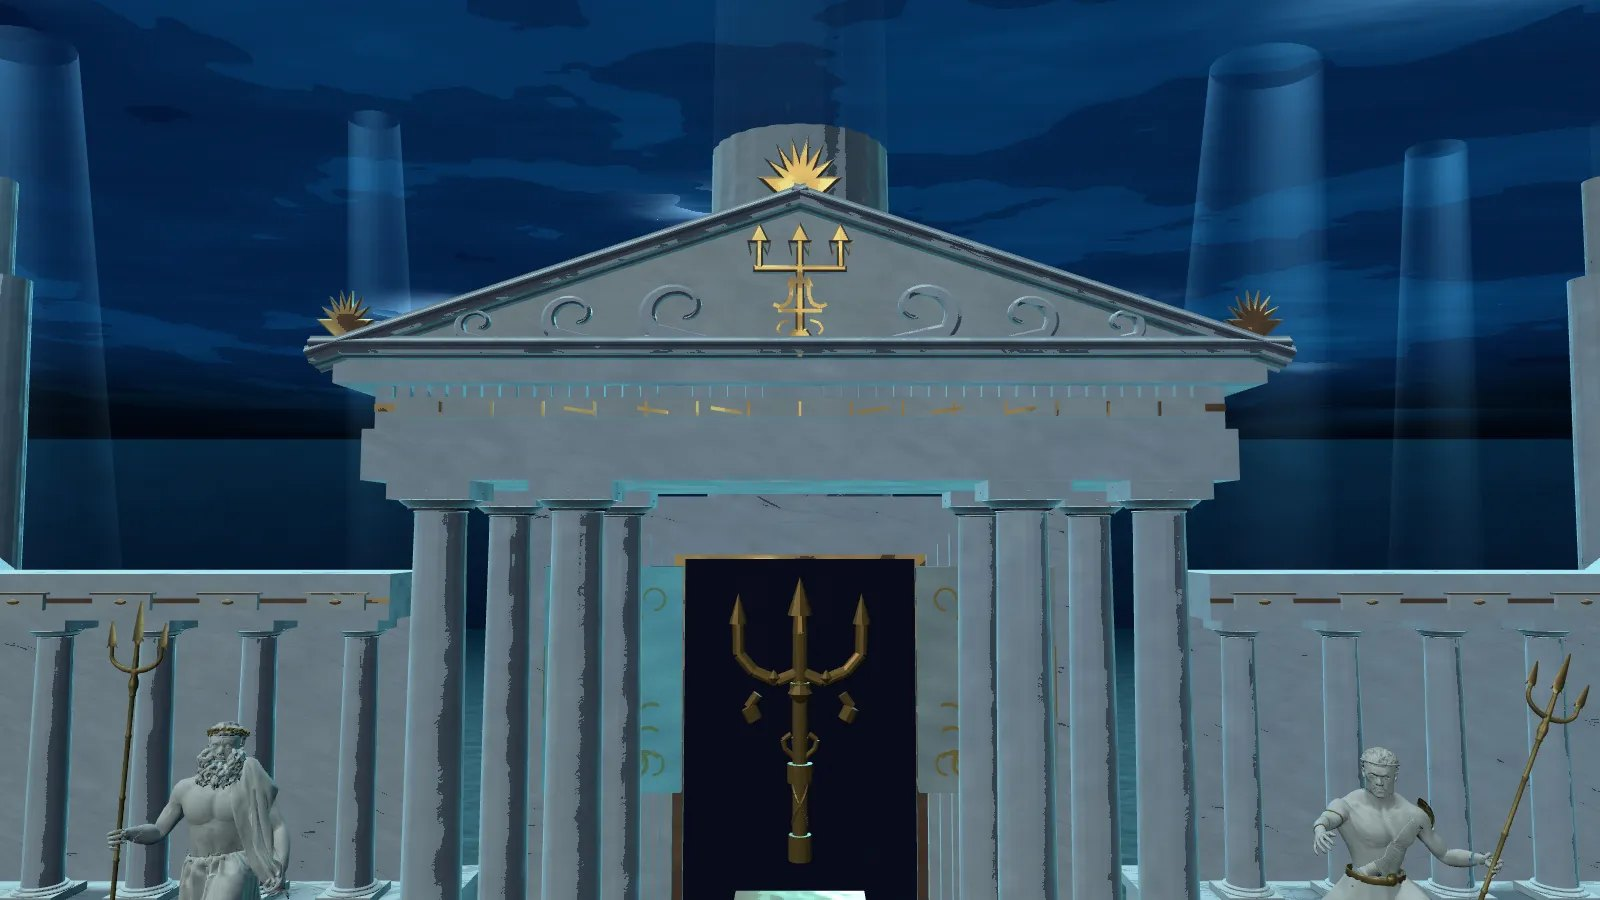
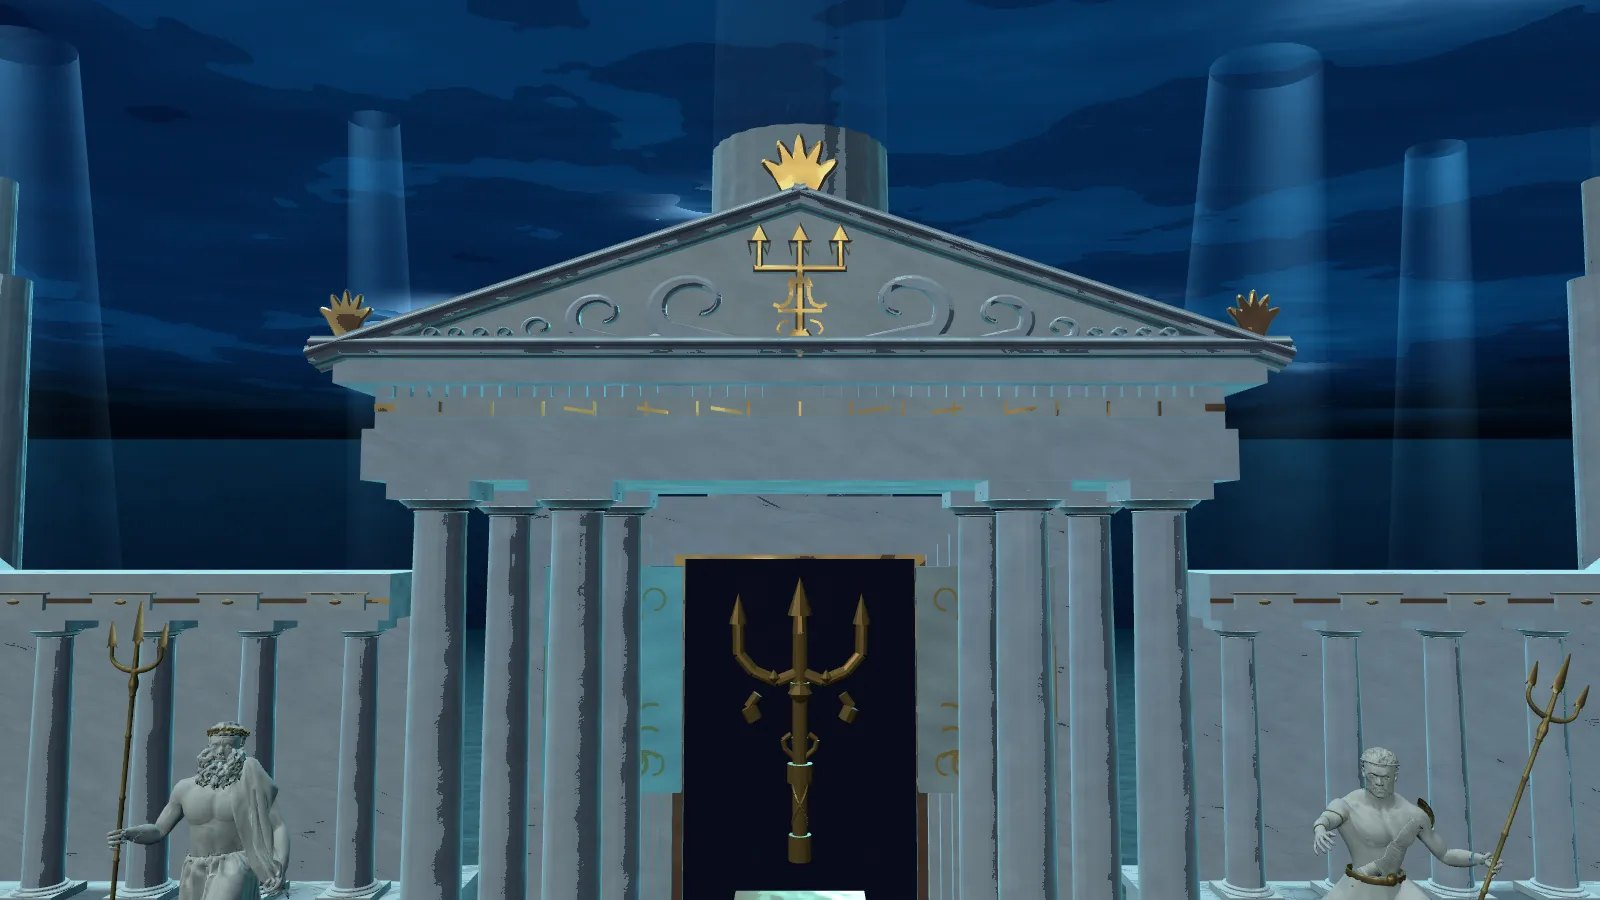
Palácio V15: chamas em gota, ondas do tímpano em fileira, palmeta de 5 lóbulos e degraus com focinho
Escadaria numa malha só: partida cai de 119 para 95 draw calls no Alto.
Teste V15 11 ok. Asset segue em ART_REVIEW_PENDING.

diff --git a/arena-forge/poseidon-palace.js b/arena-forge/poseidon-palace.js
@@ -174,12 +174,19 @@ export function createPoseidonPalace(THREE, {quality = 'high', reduceMotion = fa
   // Pátio de entrada e escadaria central (eixo x=0), com laterais inclinadas e pedestais na base.
   slab(0,0,.26,-26.6,34,14,M.platform);
   slab(0,0,.18,-18.3,13,3.2,M.platform); // caminho processional: do campo ao primeiro degrau
+  const stepParts=[]; // V15: degraus com focinho moldurado (bocel e sombra sob a quina), numa malha só
   for(let i=0;i<STEP_N;i++){
     const z=STAIR_Z-i*STEP_D,top=.35+(i+1)*STEP_R;
+    if(v15){
+      const D=STEP_D+.01,f=D;
+      stepParts.push([V15.sweep(THREE,[[0,f-.02],[top-.11,f-.02],[top-.085,f+.02],[top-.05,f+.06],[top-.02,f+.065],[top,f+.03]],STAIR_W,0),[0,0,z-D/2]]);
+    } else {
     slab(0,0,top,z,STAIR_W,STEP_D+.01,M.stairs);
     box(0,top-.02,z+STEP_D*.47,STAIR_W+.02,.04,.07,M.plinth); // quina do degrau levemente gasta
+    }
     contact(0,top,z-STEP_D*.36,STAIR_W*.98,STEP_D*.55);
   }
+  if(stepParts.length) part(V15.merge(THREE,stepParts),M.stairs,0,0,0).name='V15 · Escadaria';
   const run=(STEP_N-1)*STEP_D,rise=(STEP_N-1)*STEP_R,ang=Math.atan2(rise,run),len=Math.hypot(run,rise)+1.6;
   for(const side of [-1,1]){
     const cheek=box(side*(STAIR_W/2+.6),(.64+P)/2+.55,STAIR_Z-run/2,1.2,1.5,len,M.entab);
@@ -322,8 +329,8 @@ export function createPoseidonPalace(THREE, {quality = 'high', reduceMotion = fa
     for(let i=0;i<nD;i++){dm.makeScale(.19,.24,.2).setPosition(-8.6+.18+i*.36,ENT+1.82,dz+.09);dInst.setMatrixAt(i,dm);}
     dInst.name='V15 · Dentículos';into.add(dInst);
     // palmetas (acrotérios) de ouro
-    const palm=[],lobes=7;
-    for(let k=0;k<=lobes*2;k++){const a=Math.PI*(.06+.88*k/(lobes*2)),r=k%2?.52:1;palm.push([Math.cos(a)*r*.6,.25+Math.sin(a)*r*.75]);}
+    const palm=[]; // anthemion de 5 lóbulos arredondados
+    for(let k=0;k<=48;k++){const a=Math.PI*(.08+.84*k/48),r=.62+.38*Math.pow(Math.abs(Math.cos(5.95*(a-Math.PI/2))),1.6);palm.push([Math.cos(a)*r*.6,.25+Math.sin(a)*r*.75]);}
     const palmOutline=[[.18,0],...palm,[-.18,0]].map(([x,y])=>[x,y]);
     part(V15.extrudePoly(THREE,palmOutline,.16,.04),gold,0,C+PH+.05,fz+.12,1.5,1.5,1);
     for(const side of [-1,1]) part(V15.extrudePoly(THREE,palmOutline,.14,.035),gold,side*(PW/2-.35),C+.42,fz+.3,1,1,1);
@@ -340,9 +347,17 @@ export function createPoseidonPalace(THREE, {quality = 'high', reduceMotion = fa
     part(V15.merge(THREE,tri.map(([o,[x,y,z]])=>[V15.extrudePoly(THREE,o,.18,.04),[x,y,z]])),gold,0,0,0);
     // ondas: três de cada lado, menores em direção aos cantos (cabem sob as águas do frontão)
     const wave=V15.waveOutline(),wl=[...wave].map(([x,y])=>[-x,y]).reverse(),waves=[];
-    for(const side of [-1,1]) for(const [x0,sc] of [[1.55,1.25],[3.85,1.0],[6.0,.7]]){
-      waves.push([V15.extrudePoly(THREE,side>0?wave:wl,.22,.05),[side*x0,tb-.05,tz,sc*1.25,sc,1]]);
+    // fileira contínua de ondas: cada uma cabe sob a água do frontão; uma faixa de mar liga as bases
+    const hAt=x=>th*(1-x/(tw/2))-.3;
+    for(const side of [-1,1]){
+      let x0=1.05;
+      while(x0<tw/2-1.1){
+        const sc=Math.max(.32,Math.min(1.45,hAt(x0+1.15)/1.08));
+        waves.push([V15.extrudePoly(THREE,side>0?wave:wl,.24,.055),[side*x0,tb-.05,tz,sc*1.3,sc,1]]);
+        x0+=sc*1.3*1.18;
+      }
     }
+    waves.push([V15.extrudePoly(THREE,[[-tw/2+.5,0],[tw/2-.5,0],[tw/2-.7,.16],[-tw/2+.7,.16]],.2,.04),[0,tb-.12,tz]]);
     part(V15.merge(THREE,waves),M.capital,0,0,0);
   }
   // Alas laterais: pódio, stoa de 5 colunas encaixadas, entablamento, pavilhão com telhado piramidal.
@@ -505,12 +520,16 @@ export function createPoseidonPalace(THREE, {quality = 'high', reduceMotion = fa
   buildColumns();
   const flameMat=new THREE.MeshBasicMaterial({color:0x7fe9ff,transparent:true,opacity:.75,blending:THREE.AdditiveBlending,depthWrite:false});owned.push(flameMat);
   const flames=[];
+  // V15: chama pintada em gota (dois planos cruzados), no lugar do cone que lia como cristal.
+  const flameV15=v15?new THREE.ShaderMaterial({transparent:true,depthWrite:false,blending:THREE.AdditiveBlending,side:THREE.DoubleSide,fog:false,uniforms:{uTime:shared.uTime},
+    vertexShader:'varying vec2 vUv; void main(){vUv=uv;gl_Position=projectionMatrix*modelViewMatrix*vec4(position,1.);}',fragmentShader:V15.FLAME_FRAG}):null;
+  if(flameV15) owned.push(flameV15);
   for(const a of [-47,-25,25,47]){
     const [x,z]=polar(18.4,a);
     if(v15) part(V15.lathe(THREE,V15.BRAZIER,tier?20:10),gold,x,0,z); // V15: braseiro torneado (pé, nós e taça)
     else { part(new THREE.CylinderGeometry(.12,.3,2.2,10),gold,x,1.1,z);
     part(new THREE.CylinderGeometry(.85,.35,.5,16),gold,x,2.4,z); }
-    const f=part(new THREE.ConeGeometry(.55,1.5,12),flameMat,x,3.3,z);flames.push(f);
+    const f=v15?Object.assign(part(V15.flameGeo(THREE),flameV15,x,2.48,z,1.15,1.9,1.15),{userData:{s:[1.15,1.9]}}):part(new THREE.ConeGeometry(.55,1.5,12),flameMat,x,3.3,z);flames.push(f);
     contact(x,0,z,2,2);
   }
   // Sombras de contato numa malha só (instanciada).
@@ -633,6 +652,6 @@ export function createPoseidonPalace(THREE, {quality = 'high', reduceMotion = fa
     // Transição de luz da cinemática: multiplica a iluminação do mundo (1 = luz da partida).
     setLight(k){ hemi.intensity=base.hemi*k; key.intensity=base.key*k; rim.intensity=base.rim*k; warm.intensity=base.warm*k; front.intensity=base.front*k; rakeL.intensity=base.rake*k; },
     update(t){ if(reduceMotion) return; shared.uTime.value=t; beams.forEach((b,i)=>{b.rotation.z=b.userData.tilt+Math.sin(t*.07+i*1.7)*.012;});
-      flames.forEach((f,i)=>{const k=1+Math.sin(t*5+i*2.1)*.08+Math.sin(t*11.3+i)*.04;f.scale.set(1,k,1);}); },
+      flames.forEach((f,i)=>{const k=1+Math.sin(t*5+i*2.1)*.08+Math.sin(t*11.3+i)*.04;const u=f.userData.s||[1,1];f.scale.set(u[0],k*u[1],u[0]);}); },
     dispose(){ guardianV13Disposed=true;guardianV13?.dispose(); guardianBDisposed=true;guardianB?.dispose(); portalV9Disposed=true;if(portalInstances)G.landmark.remove(portalInstances);portalV9?.dispose();capV8Disposed=true;if(capInstances)G.landmark.remove(capInstances);capV8?.dispose();v7Disposed=true;glbV7?.dispose();paintedMaps?.dispose();battlePainting?.dispose();root.traverse(n=>{ if(n.isMesh && n.geometry!==unitBox) n.geometry.dispose(); }); new Set(owned).forEach(o=>o.dispose()); root.material.dispose(); }};
 }

diff --git a/arena-forge/poseidon-v15-architecture.js b/arena-forge/poseidon-v15-architecture.js
@@ -120,8 +120,8 @@ export const BRAZIER = [[0, 0], [.55, 0], [.55, .12], [.32, .2], [.16, .32], [.1
   [.3, 2.15], [.62, 2.32], [.86, 2.5], [.92, 2.62], [.82, 2.66], [.5, 2.5], [0, 2.46]];
 
 // Varredura de um perfil (y crescente, z = avanço) ao longo de x, de -L/2 a L/2. Faces planas com tampas: cornijas e molduras.
-export function sweep(THREE, prof, L = 1) {
-  const pos = [], h = L / 2, zb = Math.min(...prof.map(p => p[1]));
+export function sweep(THREE, prof, L = 1, back = null) {
+  const pos = [], h = L / 2, zb = back ?? Math.min(...prof.map(p => p[1]));
   const q = (a, b, c, d) => pos.push(...a, ...b, ...c, ...a, ...c, ...d);
   for (let i = 0; i < prof.length - 1; i++) {
     const [y0, z0] = prof[i], [y1, z1] = prof[i + 1];
@@ -236,3 +236,24 @@ export function rockGeo(THREE, seed = 1, w = 10, h = 8) {
   }
   const f = g.toNonIndexed(); g.dispose(); f.computeVertexNormals(); return f;
 }
+
+// Chama pintada: dois planos cruzados com shader de gota (núcleo claro, borda teal, tremor por ruído). Base em y = 0, altura 1.
+export function flameGeo(THREE) {
+  const q = [[-.5, 0, 0], [.5, 0, 0], [.5, 1, 0], [-.5, 1, 0], [0, 0, -.5], [0, 0, .5], [0, 1, .5], [0, 1, -.5]];
+  const uv = [0, 0, 1, 0, 1, 1, 0, 1, 0, 0, 1, 0, 1, 1, 0, 1];
+  const g = new THREE.BufferGeometry();
+  g.setAttribute('position', new THREE.BufferAttribute(new Float32Array(q.flat()), 3));
+  g.setAttribute('uv', new THREE.BufferAttribute(new Float32Array(uv), 2));
+  g.setIndex([0, 1, 2, 0, 2, 3, 4, 5, 6, 4, 6, 7]); return g;
+}
+export const FLAME_FRAG = `uniform float uTime; varying vec2 vUv;
+  void main(){
+    float y = vUv.y, sway = sin(y * 5. + uTime * 3.1) * .06 * y + sin(y * 11. - uTime * 5.3) * .025 * y;
+    float x = (vUv.x - .5 - sway) * 2.;
+    float w = .78 * pow(1. - y, .55) * smoothstep(0., .14, y);   // gota: larga embaixo, ponta fina
+    float a = smoothstep(w, w * .35, abs(x));
+    float core = smoothstep(w * .55, 0., abs(x)) * (1. - smoothstep(.2, .75, y));
+    vec3 col = mix(vec3(.08, .55, .7), vec3(.55, .95, 1.), a) + vec3(.9, 1., 1.) * core * .7;
+    a *= .8 * (1. - smoothstep(.55, 1., y) * .6);
+    gl_FragColor = vec4(col * a, a);
+  }`;

diff --git a/docs/poseidon-palace-v15.md b/docs/poseidon-palace-v15.md
@@ -36,7 +36,8 @@ Os Master Artboards **continuam ausentes do Mac**: `docs/art-bible/references/` 
 | 7 | Grande Pilar | Cilindro liso | Médio | Fuste com 24 caneluras e base ática; os pilares distantes também |
 | 8 | Oceano suspenso | Plano único com borda visível no horizonte | Médio | Refração estilizada (ondulação deslocada por ruído) e segunda camada alta e escura que cobre o horizonte |
 | 9 | Balaustrada e braseiros do campo | Cilindros de 8 lados | Médio-baixo | Balaústres em vaso e braseiros torneados |
-| 10 | Chamas dos braseiros | Cones translúcidos que leem como cristal | Baixo | **Não tratado** (pendente) |
+| 10 | Chamas dos braseiros | Cones translúcidos que leem como cristal | Baixo | Chama pintada em gota: dois planos cruzados, núcleo claro, borda teal e tremor |
+| 12 | Escadaria | Degraus de caixa | Médio | Degraus com focinho moldurado (bocel e sombra sob a quina), fundidos numa malha só |
 | 11 | Piso cerimonial | Já pintado. Bom | — | Mantido: a legibilidade das cartas é a mesma |
 
 ## 2. Benchmark reproduzível
@@ -155,12 +156,30 @@ O Material Studio precisa do servidor com API, `card-forge/serve.py` na porta 87
 
 ## 6. Limitações
 
-1. **Relevo do tímpano:** as ondas são poucas e pequenas. Leem como volutas, não como um mar esculpido.
-2. **Acrotério central:** a palmeta tem pontas demais e lê como sol.
-3. **Chamas dos braseiros:** continuam cones translúcidos.
-4. **Escadaria:** os degraus continuam caixas. O desgaste vem só do material.
-5. **Cinemática:** as chaves não foram mexidas. A melhora vem da luz rasante, do mar e da arquitetura. Não foram feitos ajustes de enquadramento nem de revelação dos guardiões.
-6. **Master Artboards:** sem eles no Mac, a comparação usa só o texto da Art Bible.
+**Corrigidas em 08/11/2026, depois da aprovação da direção:**
+
+| Pendência | Correção |
+| --- | --- |
+| Chamas | Chama pintada em gota |
+| Ondas do tímpano | Fileira contínua, com o tamanho de cada onda ajustado à altura das águas do frontão, e faixa de mar ligando as bases |
+| Palmeta | Anthemion de 5 lóbulos arredondados |
+| Escadaria | Degraus com focinho moldurado, numa malha só |
+
+Com a escadaria numa malha só e as rochas instanciadas, a cena desenha menos:
+
+| Câmera | Draw calls da V1.1 | Draw calls da V15 |
+| --- | --- | --- |
+| Partida no Alto | 123 | 95 |
+| Partida no celular | 68 | 56 |
+| Chave 1 no Alto | 223 | 227 |
+
+Uma medida curta (2 rodadas, Alto e celular, na chave 1 e na partida) não mostrou mudança de GPU além do ruído do dia.
+
+**Ainda abertas:**
+
+1. **Cinemática:** as chaves não foram mexidas. Não foram feitos ajustes de enquadramento nem de revelação dos guardiões.
+2. **Master Artboards:** continuam ausentes do Mac.
+3. **Desempenho:** os achados da seção 2 continuam abertos (LOD mobile dos guardiões no celular).
 
 ## Arquivos
 
